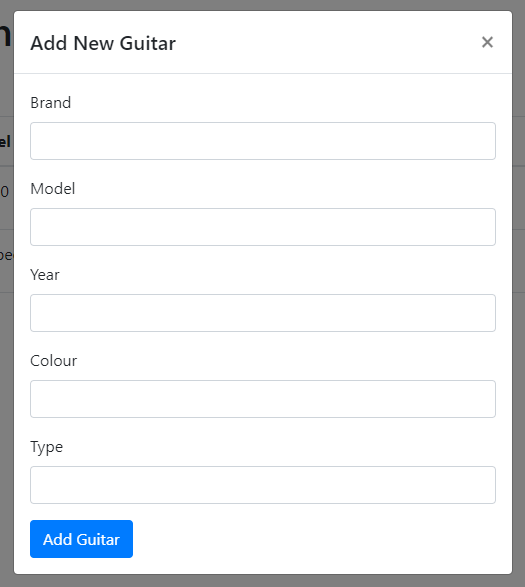
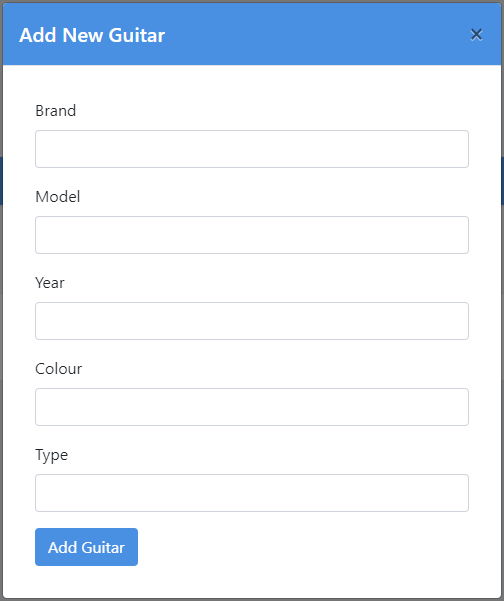
Updated styling

diff --git a/templates/index.html b/templates/index.html
@@ -3,32 +3,88 @@
 <head>
     <meta charset="UTF-8">
     <meta name="viewport" content="width=device-width, initial-scale=1.0">
-    <title>Stratolog - Catalog your gear!</title>
+    <title>Stratolog - Catalog Your Gear!</title>
     <link rel="stylesheet" href="https://stackpath.bootstrapcdn.com/bootstrap/4.5.2/css/bootstrap.min.css">
     <script src="https://code.jquery.com/jquery-3.5.1.slim.min.js"></script>
     <script src="https://cdn.jsdelivr.net/npm/@popperjs/core@2.5.3/dist/umd/popper.min.js"></script>
     <script src="https://stackpath.bootstrapcdn.com/bootstrap/4.5.2/js/bootstrap.min.js"></script>
+    <style>
+        body {
+            background-color: #e9ecef;
+        }
+        h1 {
+            font-size: 2.5rem;
+            font-weight: 700;
+            color: #343a40;
+            text-align: center;
+            margin-bottom: 2rem;
+        }
+        .table {
+            background: white;
+            border-radius: 8px;
+            overflow: hidden;
+        }
+        .table thead th {
+            background-color: #4a90e2;
+            color: white;
+            font-weight: bold;
+        }
+        .modal-header {
+            background-color: #4a90e2;
+            color: white;
+        }
+        .modal-body {
+            padding: 2rem;
+        }
+        .btn-primary {
+            background-color: #4a90e2;
+            border-color: #4a90e2;
+            transition: background-color 0.3s, border-color 0.3s;
+        }
+        .btn-primary:hover {
+            background-color: #357ABD;
+            border-color: #357ABD;
+        }
+        .card {
+            border: none;
+            box-shadow: 0 4px 20px rgba(0, 0, 0, 0.1);
+            border-radius: 8px;
+        }
+        .btn-action {
+            width: 100%;
+        }
+        .footer {
+            text-align: center;
+            margin-top: 2rem;
+            color: #6c757d;
+        }
+    </style>
 </head>
 <body>
-    <div class="container">
-        <h1 class="mt-4">Guitar Collection</h1>
+    <div class="container mt-5">
+        <h1>Guitar Collection</h1>
         <button class="btn btn-primary mb-3" data-toggle="modal" data-target="#addGuitarModal">Add New Guitar</button>
-        <table class="table table-bordered">
-            <thead>
-                <tr>
-                    <th>ID</th>
-                    <th>Brand</th>
-                    <th>Model</th>
-                    <th>Year</th>
-                    <th>Colour</th>
-                    <th>Type</th>
-                    <th>Actions</th>
-                </tr>
-            </thead>
-            <tbody id="guitarTableBody">
-                
-            </tbody>
-        </table>
+        <div class="table-responsive">
+            <table class="table table-bordered table-striped">
+                <thead>
+                    <tr>
+                        <th>ID</th>
+                        <th>Brand</th>
+                        <th>Model</th>
+                        <th>Year</th>
+                        <th>Colour</th>
+                        <th>Type</th>
+                        <th>Actions</th>
+                    </tr>
+                </thead>
+                <tbody id="guitarTableBody">
+                    
+                </tbody>
+            </table>
+        </div>
+        <footer class="footer">
+            <p>&copy; 2024 Stratolog. All rights reserved.</p>
+        </footer>
     </div>
 
     <div class="modal fade" id="addGuitarModal" tabindex="-1" role="dialog" aria-labelledby="addGuitarModalLabel" aria-hidden="true">
@@ -52,7 +108,7 @@
                         </div>
                         <div class="form-group">
                             <label for="year">Year</label>
-                            <input type="text" class="form-control" id="year" required>
+                            <input type="number" class="form-control" id="year" required>
                         </div>
                         <div class="form-group">
                             <label for="colour">Colour</label>
@@ -91,7 +147,7 @@
                         </div>
                         <div class="form-group">
                             <label for="editYear">Year</label>
-                            <input type="text" class="form-control" id="editYear" required>
+                            <input type="number" class="form-control" id="editYear" required>
                         </div>
                         <div class="form-group">
                             <label for="editColour">Colour</label>
@@ -124,8 +180,8 @@
                     <td>${guitar.colour}</td>
                     <td>${guitar.type}</td>
                     <td>
-                        <button class="btn btn-warning" onclick="editGuitar(${guitar.id})">Edit</button>
-                        <button class="btn btn-danger" onclick="deleteGuitar(${guitar.id})">Delete</button>
+                        <button class="btn btn-warning btn-sm btn-action" onclick="editGuitar(${guitar.id})">Edit</button>
+                        <button class="btn btn-danger btn-sm btn-action" onclick="deleteGuitar(${guitar.id})">Delete</button>
                     </td>
                 `;
                 tableBody.appendChild(row);
